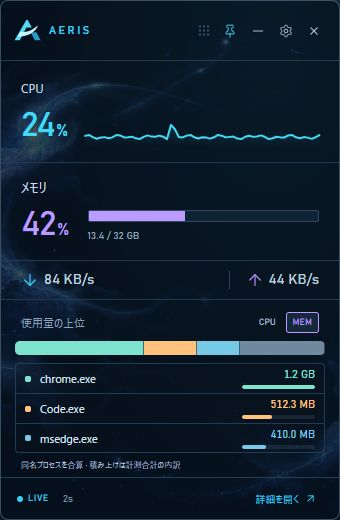
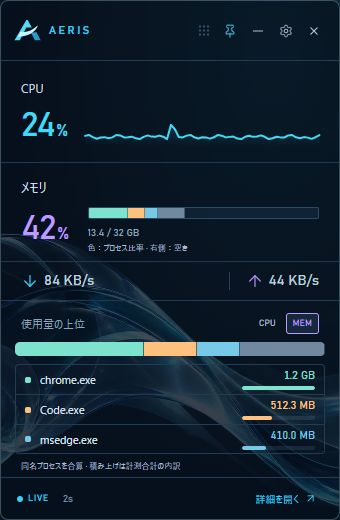
🎨 Stack app colors inside the gadget memory capacity bar
- Preserve the physical used/free boundary while coloring process proportions.
- Keep upper memory independent from the lower CPU and memory selector.
- Verify capacity edge cases and update docs and screenshots for v1.2.3.

diff --git a/ui/main.ts b/ui/main.ts
@@ -3,7 +3,7 @@ import './glass.css';
 import './resources.css';
 import './usage.css';
 import './breakdown.css';
-import {aggregateApps,renderBreakdown,appKey,usageAmount} from './breakdown';
+import {aggregateApps,renderBreakdown,appKey,usageAmount,memoryCapacity} from './breakdown';
 let appFilter:string|null=null;
 let showCpuHistory=false;
 import {percentage,usageColor,usageLevel,usageLeaders,type Resource} from './usage';
@@ -47,9 +47,9 @@ function draw(id:string,key:'cpu'|'memory'|'download',max=100,upload=false) {
  if(upload) el.querySelector('.upload-trace')?.setAttribute('points',chartPoints(snapshot.history,'upload',800,200,max,snapshot.sample.time));
 }
 const processPanel=`<section class="process-panel panel"><div id="usage-leaders" class="usage-leaders"></div><div class="process-heading"><div class="section-title">プロセス <span id="process-count" class="count">—</span></div><label class="search-box">${i('search')}<input id="search" placeholder="名前 / PID を検索" aria-label="プロセスを検索" autocomplete="off" spellcheck="false"><kbd>Ctrl F</kbd>${ib('clear-search','x','検索をクリア')}</label></div><div class="usage-key"><span class="scale-note">バー：各列の最多使用量との比較</span><span title="プロセスのCPU 25%以上、メモリは物理容量の10%以上" style="--resource-color:var(--load-high)"><b></b>高負荷</span><span title="プロセスのCPU 50%以上、メモリは物理容量の20%以上" style="--resource-color:var(--load-critical)"><b></b>非常に高い</span></div><div class="table-scroll" id="table-scroll"><table aria-label="実行中のプロセス"><colgroup><col style="width:27%"><col style="width:9%"><col style="width:10%"><col style="width:15%"><col style="width:13%"><col style="width:13%"><col style="width:13%"></colgroup><thead><tr>${[['name','名前'],['pid','PID'],['cpu','CPU %'],['memory','メモリ'],['read','読込/s'],['write','書込/s']].map(([k,label])=>`<th scope="col" aria-sort="${k==='cpu'?'descending':'none'}"><button data-sort="${k}">${label}<span class="sort-mark">${k==='cpu'?'↓':''}</span></button></th>`).join('')}<th scope="col">状態</th></tr></thead><tbody id="rows"></tbody></table><div class="empty" id="empty">システムに接続しています…</div></div><div class="process-bottom"><span id="selection-label">選択すると詳細を表示します</span><div class="actions"><button id="detail-button" class="quiet-button" data-action="details" disabled>詳細</button><button id="end-button" class="outline-button" data-action="end" disabled>タスクを終了</button></div></div></section>`;
-const settingsPanel=`<section id="settings-page" class="panel settings-page" hidden><div class="eyebrow">MAKE IT YOURS</div><h1>静かに、自分のペースで。</h1><p class="muted">表示と更新を、いつもの使い方に合わせて。</p><div class="setting-row"><div><h3>更新間隔</h3><p>長めの間隔で、計測の負荷を抑えられます。</p></div><div class="segmented">${[1,2,5].map(n=>`<button data-interval="${n}">${n} 秒</button>`).join('')}</div></div><div class="setting-row"><div><h3>ガジェットを最前面に固定</h3><p>ほかのアプリを操作していても表示します。</p></div><button class="switch" role="switch" aria-label="ガジェットを最前面に固定" id="pin-toggle" data-action="pin" aria-checked="true"></button></div><div class="setting-row"><div><h3>常駐ガジェット</h3><p>小さなウィンドウで、システムの動きを確認。</p></div><button class="primary-button" data-action="gadget">${i('panel-top')}ガジェットを開く</button></div><div class="setting-note">${i('activity')}<div><strong>見えないときは、ひと休み。</strong><p>すべての画面が非表示・最小化中は計測を停止します。<br>閉じてもバックグラウンドで動作を続けます。</p></div></div><div class="shortcuts"><span><kbd>Ctrl F</kbd> 検索</span><span><kbd>F5</kbd> 今すぐ更新</span><span><kbd>Esc</kbd> 閉じる / クリア</span></div><div class="settings-foot"><span>AERIS 1.2.2 · Tauri + Rust<br>CPU：全論理プロセッサに対する使用時間の割合<br>メモリ：各プロセスのワーキングセット<br>ネットワーク：ループバックを除くインターフェイスの合計</span><button class="quiet-button" data-action="quit">${i('power')}AERISを終了</button></div></section>`;
-function mainShell(){return `<div class="app-shell"><header class="titlebar" data-tauri-drag-region><span data-tauri-drag-region>AERIS <span class="title-separator">/</span> SYSTEM MONITOR</span><div class="window-controls">${ib('minimize','minus','最小化')}${ib('maximize','square','最大化 / 元に戻す')}${ib('close','x','画面をしまう')}</div></header><aside class="sidebar"><a class="brand" href="#overview" aria-label="AERIS 概要">${logo}</a><div class="sidebar-label">WORKSPACE</div><nav><button data-page="overview" class="nav-button active">${i('layout-grid')}<span>概要</span></button><button data-page="performance" class="nav-button">${i('cpu')}<span>パフォーマンス</span></button><button data-page="processes" class="nav-button">${i('activity')}<span>プロセス</span></button><button data-page="startup" class="nav-button">${i('play')}<span>スタートアップ</span></button><button data-page="services" class="nav-button">${i('sliders-horizontal')}<span>サービス</span></button><button data-page="history" class="nav-button">${i('clock')}<span>アプリ履歴</span></button><button data-page="users" class="nav-button">${i('shield')}<span>ユーザー</span></button><button data-page="settings" class="nav-button">${i('settings')}<span>設定</span></button></nav><div class="sidebar-bottom"><button class="gadget-launch" data-action="gadget">${i('panel-top')}<span>ガジェット表示</span>${i('arrow-up-right')}</button><div class="live-control"><span class="live"><b class="live-dot"></b><span id="live-text">LIVE</span></span>${ib('pause','pause','計測を一時停止 / 再開')}</div><label class="interval-label">更新間隔<select id="interval" aria-label="更新間隔"><option value="1">1 秒</option><option value="2" selected>2 秒</option><option value="5">5 秒</option></select></label><div class="version">DESKTOP NATIVE<span>v1.2.2</span></div></div></aside><main><div class="page-header"><div><div class="eyebrow" id="eyebrow">SYSTEM OVERVIEW</div><h1 id="page-title">PCの今を、軽やかに。</h1><p id="machine" class="machine">接続しています…</p></div><div class="header-actions"><button class="quiet-button" data-action="new-task">＋ 新しいタスク</button><span id="preview-badge" ${native?'hidden':''}>デザインプレビュー</span>${ib('refresh','refresh-cw','今すぐ更新 (F5)')}</div></div><div class="workspace" id="workspace"><div class="primary-column"><section id="cpu-panel" class="cpu-panel panel"><div class="metric-heading"><div><span class="metric-title">CPU</span><span id="cpu-value" class="hero-value">—<small>%</small></span><div class="muted metric-subtitle">使用率</div></div><div class="processor-info"><span id="cpu-name">—</span><span id="core-count">—</span></div></div><div class="breakdown-toolbar"><span id="cpu-view-label">アプリごとの使用量</span><button id="cpu-view-toggle" data-action="cpu-view">時間推移を見る</button></div><div id="cpu-breakdown"></div>${chart('cpu-chart',true)}<div class="chart-foot"><span><b class="legend-dot"></b> CPU 使用率</span><span>直近60秒</span></div></section>${processPanel}</div><aside class="telemetry"><section class="panel metric-card"><div class="card-label">メモリ${i('memory-stick')}</div><div id="memory-value" class="metric-value">—<small>%</small></div><div id="memory-capacity" class="metric-caption">— / — GB</div><div id="memory-breakdown"></div>${chart('memory-chart')}<div class="memory-track"><div id="memory-bar"></div></div><div class="dual-stat"><div><span>使用中</span><strong id="memory-used">—</strong></div><div><span>利用可能</span><strong id="memory-free">—</strong></div></div></section><section class="panel metric-card network-card"><div class="card-label">ネットワーク${i('wifi')}</div><div id="net-value" class="metric-value network-value">—<small>KB/s</small></div><div class="network-rates"><span class="download">↓ <b id="download-value">—</b></span><span class="upload">↑ <b id="upload-value">—</b></span></div>${chart('network-chart')}<div class="network-note">全インターフェイス合計<span>受信 + 送信</span></div></section><section class="panel uptime-card"><div class="card-label">システム稼働時間${i('clock')}</div><div id="uptime" class="uptime">—</div><div class="bottom-stat"><span>プロセス数</span><strong id="total-processes">—</strong></div><div class="bottom-stat"><span>論理プロセッサ</span><strong id="total-cores">—</strong></div></section></aside></div><section id="tools-page" class="resource-page" hidden></section><section id="insights-page" class="resource-page" hidden></section><section id="performance-page" class="resource-page" hidden></section>${settingsPanel}</main><footer><span id="status"><b class="live-dot"></b> 計測を準備しています</span><span id="updated">—</span></footer></div>`;}
-function gadgetShell(){return `<div class="gadget-shell"><div id="full-gadget"><header class="gadget-header" data-tauri-drag-region><div class="gadget-brand" data-tauri-drag-region>${logo}</div><span class="drag-grip" data-tauri-drag-region>${i('grip')}</span>${ib('pin','pin','最前面への固定を切り替え')}${ib('mini','minus','ミニバーに切り替え')}${ib('open-settings','settings','設定を開く')}${ib('hide-gadget','x','ガジェットを閉じる')}</header><section class="gadget-cpu"><div class="gadget-label">CPU</div><div class="gadget-cpu-body"><strong id="g-cpu">—<small>%</small></strong>${chart('g-cpu-chart')}</div></section><section class="gadget-memory"><div class="gadget-label">メモリ</div><div class="gadget-memory-body"><strong id="g-memory">—<small>%</small></strong><div><div class="memory-track"><div id="g-memory-bar"></div></div><span id="g-memory-capacity">— / — GB</span></div></div></section><section class="gadget-network"><span class="download">${i('arrow-down')}<b id="g-download">—</b></span><span class="upload">${i('arrow-up')}<b id="g-upload">—</b></span></section><section class="gadget-processes"><div class="gadget-label">使用量の上位<span class="g-usage-tabs"><button data-usage-sort="cpu" aria-pressed="true" style="--resource-color:var(--cpu-color)">CPU</button><button data-usage-sort="memory" aria-pressed="false" style="--resource-color:var(--memory-color)">MEM</button></span></div><div id="g-stack"></div><div id="g-processes"><div class="g-loading">計測を開始しています…</div></div><div class="g-scale-note">同名プロセスを合算 · 積み上げは計測合計の内訳</div></section><footer class="gadget-footer"><span class="live"><b class="live-dot"></b><span id="g-live">LIVE</span></span><span id="g-interval">2s</span><button data-action="open-main">詳細を開く ${i('arrow-up-right')}</button></footer></div><div id="mini-gadget" hidden data-tauri-drag-region><span class="mini-brand" data-tauri-drag-region>${brandSymbol}<span>AERIS</span></span><div class="mini-number" data-tauri-drag-region><span>CPU</span><strong id="m-cpu">—%</strong></div><div class="mini-number" data-tauri-drag-region><span>MEM</span><strong id="m-memory">—%</strong></div>${chart('m-chart')}<div class="mini-net" data-tauri-drag-region><span>↓ <b id="m-down">—</b></span><span>↑ <b id="m-up">—</b></span></div>${ib('mini','maximize-2','ガジェット表示に戻す')}${ib('hide-gadget','x','ガジェットを閉じる')}</div></div>`;}
+const settingsPanel=`<section id="settings-page" class="panel settings-page" hidden><div class="eyebrow">MAKE IT YOURS</div><h1>静かに、自分のペースで。</h1><p class="muted">表示と更新を、いつもの使い方に合わせて。</p><div class="setting-row"><div><h3>更新間隔</h3><p>長めの間隔で、計測の負荷を抑えられます。</p></div><div class="segmented">${[1,2,5].map(n=>`<button data-interval="${n}">${n} 秒</button>`).join('')}</div></div><div class="setting-row"><div><h3>ガジェットを最前面に固定</h3><p>ほかのアプリを操作していても表示します。</p></div><button class="switch" role="switch" aria-label="ガジェットを最前面に固定" id="pin-toggle" data-action="pin" aria-checked="true"></button></div><div class="setting-row"><div><h3>常駐ガジェット</h3><p>小さなウィンドウで、システムの動きを確認。</p></div><button class="primary-button" data-action="gadget">${i('panel-top')}ガジェットを開く</button></div><div class="setting-note">${i('activity')}<div><strong>見えないときは、ひと休み。</strong><p>すべての画面が非表示・最小化中は計測を停止します。<br>閉じてもバックグラウンドで動作を続けます。</p></div></div><div class="shortcuts"><span><kbd>Ctrl F</kbd> 検索</span><span><kbd>F5</kbd> 今すぐ更新</span><span><kbd>Esc</kbd> 閉じる / クリア</span></div><div class="settings-foot"><span>AERIS 1.2.3 · Tauri + Rust<br>CPU：全論理プロセッサに対する使用時間の割合<br>メモリ：各プロセスのワーキングセット<br>ネットワーク：ループバックを除くインターフェイスの合計</span><button class="quiet-button" data-action="quit">${i('power')}AERISを終了</button></div></section>`;
+function mainShell(){return `<div class="app-shell"><header class="titlebar" data-tauri-drag-region><span data-tauri-drag-region>AERIS <span class="title-separator">/</span> SYSTEM MONITOR</span><div class="window-controls">${ib('minimize','minus','最小化')}${ib('maximize','square','最大化 / 元に戻す')}${ib('close','x','画面をしまう')}</div></header><aside class="sidebar"><a class="brand" href="#overview" aria-label="AERIS 概要">${logo}</a><div class="sidebar-label">WORKSPACE</div><nav><button data-page="overview" class="nav-button active">${i('layout-grid')}<span>概要</span></button><button data-page="performance" class="nav-button">${i('cpu')}<span>パフォーマンス</span></button><button data-page="processes" class="nav-button">${i('activity')}<span>プロセス</span></button><button data-page="startup" class="nav-button">${i('play')}<span>スタートアップ</span></button><button data-page="services" class="nav-button">${i('sliders-horizontal')}<span>サービス</span></button><button data-page="history" class="nav-button">${i('clock')}<span>アプリ履歴</span></button><button data-page="users" class="nav-button">${i('shield')}<span>ユーザー</span></button><button data-page="settings" class="nav-button">${i('settings')}<span>設定</span></button></nav><div class="sidebar-bottom"><button class="gadget-launch" data-action="gadget">${i('panel-top')}<span>ガジェット表示</span>${i('arrow-up-right')}</button><div class="live-control"><span class="live"><b class="live-dot"></b><span id="live-text">LIVE</span></span>${ib('pause','pause','計測を一時停止 / 再開')}</div><label class="interval-label">更新間隔<select id="interval" aria-label="更新間隔"><option value="1">1 秒</option><option value="2" selected>2 秒</option><option value="5">5 秒</option></select></label><div class="version">DESKTOP NATIVE<span>v1.2.3</span></div></div></aside><main><div class="page-header"><div><div class="eyebrow" id="eyebrow">SYSTEM OVERVIEW</div><h1 id="page-title">PCの今を、軽やかに。</h1><p id="machine" class="machine">接続しています…</p></div><div class="header-actions"><button class="quiet-button" data-action="new-task">＋ 新しいタスク</button><span id="preview-badge" ${native?'hidden':''}>デザインプレビュー</span>${ib('refresh','refresh-cw','今すぐ更新 (F5)')}</div></div><div class="workspace" id="workspace"><div class="primary-column"><section id="cpu-panel" class="cpu-panel panel"><div class="metric-heading"><div><span class="metric-title">CPU</span><span id="cpu-value" class="hero-value">—<small>%</small></span><div class="muted metric-subtitle">使用率</div></div><div class="processor-info"><span id="cpu-name">—</span><span id="core-count">—</span></div></div><div class="breakdown-toolbar"><span id="cpu-view-label">アプリごとの使用量</span><button id="cpu-view-toggle" data-action="cpu-view">時間推移を見る</button></div><div id="cpu-breakdown"></div>${chart('cpu-chart',true)}<div class="chart-foot"><span><b class="legend-dot"></b> CPU 使用率</span><span>直近60秒</span></div></section>${processPanel}</div><aside class="telemetry"><section class="panel metric-card"><div class="card-label">メモリ${i('memory-stick')}</div><div id="memory-value" class="metric-value">—<small>%</small></div><div id="memory-capacity" class="metric-caption">— / — GB</div><div id="memory-breakdown"></div>${chart('memory-chart')}<div class="memory-track"><div id="memory-bar"></div></div><div class="dual-stat"><div><span>使用中</span><strong id="memory-used">—</strong></div><div><span>利用可能</span><strong id="memory-free">—</strong></div></div></section><section class="panel metric-card network-card"><div class="card-label">ネットワーク${i('wifi')}</div><div id="net-value" class="metric-value network-value">—<small>KB/s</small></div><div class="network-rates"><span class="download">↓ <b id="download-value">—</b></span><span class="upload">↑ <b id="upload-value">—</b></span></div>${chart('network-chart')}<div class="network-note">全インターフェイス合計<span>受信 + 送信</span></div></section><section class="panel uptime-card"><div class="card-label">システム稼働時間${i('clock')}</div><div id="uptime" class="uptime">—</div><div class="bottom-stat"><span>プロセス数</span><strong id="total-processes">—</strong></div><div class="bottom-stat"><span>論理プロセッサ</span><strong id="total-cores">—</strong></div></section></aside></div><section id="tools-page" class="resource-page" hidden></section><section id="insights-page" class="resource-page" hidden></section><section id="performance-page" class="resource-page" hidden></section>${settingsPanel}</main><footer><span id="status"><b class="live-dot"></b> 計測を準備しています</span><span id="updated">—</span></footer></div>`;}
+function gadgetShell(){return `<div class="gadget-shell"><div id="full-gadget"><header class="gadget-header" data-tauri-drag-region><div class="gadget-brand" data-tauri-drag-region>${logo}</div><span class="drag-grip" data-tauri-drag-region>${i('grip')}</span>${ib('pin','pin','最前面への固定を切り替え')}${ib('mini','minus','ミニバーに切り替え')}${ib('open-settings','settings','設定を開く')}${ib('hide-gadget','x','ガジェットを閉じる')}</header><section class="gadget-cpu"><div class="gadget-label">CPU</div><div class="gadget-cpu-body"><strong id="g-cpu">—<small>%</small></strong>${chart('g-cpu-chart')}</div></section><section class="gadget-memory"><div class="gadget-label">メモリ</div><div class="gadget-memory-body"><strong id="g-memory">—<small>%</small></strong><div><div class="memory-track gadget-capacity-track" role="group" aria-label="物理メモリの使用中と空き。使用中の色はプロセスメモリの比率。"><div id="g-memory-bar"></div></div><span id="g-memory-capacity">— / — GB</span><small class="capacity-key">色：プロセス比率 · 右側：空き</small></div></div></section><section class="gadget-network"><span class="download">${i('arrow-down')}<b id="g-download">—</b></span><span class="upload">${i('arrow-up')}<b id="g-upload">—</b></span></section><section class="gadget-processes"><div class="gadget-label">使用量の上位<span class="g-usage-tabs"><button data-usage-sort="cpu" aria-pressed="true" style="--resource-color:var(--cpu-color)">CPU</button><button data-usage-sort="memory" aria-pressed="false" style="--resource-color:var(--memory-color)">MEM</button></span></div><div id="g-stack"></div><div id="g-processes"><div class="g-loading">計測を開始しています…</div></div><div class="g-scale-note">同名プロセスを合算 · 積み上げは計測合計の内訳</div></section><footer class="gadget-footer"><span class="live"><b class="live-dot"></b><span id="g-live">LIVE</span></span><span id="g-interval">2s</span><button data-action="open-main">詳細を開く ${i('arrow-up-right')}</button></footer></div><div id="mini-gadget" hidden data-tauri-drag-region><span class="mini-brand" data-tauri-drag-region>${brandSymbol}<span>AERIS</span></span><div class="mini-number" data-tauri-drag-region><span>CPU</span><strong id="m-cpu">—%</strong></div><div class="mini-number" data-tauri-drag-region><span>MEM</span><strong id="m-memory">—%</strong></div>${chart('m-chart')}<div class="mini-net" data-tauri-drag-region><span>↓ <b id="m-down">—</b></span><span>↑ <b id="m-up">—</b></span></div>${ib('mini','maximize-2','ガジェット表示に戻す')}${ib('hide-gadget','x','ガジェットを閉じる')}</div></div>`;}
 $('#app').innerHTML=(gadget?gadgetShell():mainShell())+`<div id="toast" class="toast" role="status" hidden></div><dialog id="detail-dialog"><div id="detail-content"></div></dialog><dialog id="end-dialog"><div class="dialog-heading"><span class="dialog-symbol">${i('power')}</span><h2>タスクを終了しますか？</h2></div><p id="end-name" class="end-name"></p><p class="muted">未保存の作業が失われる可能性があります。<br><span id="end-scope">このプロセスだけを終了します。</span></p><div class="dialog-actions"><button class="quiet-button" data-action="cancel-end">キャンセル</button><button class="danger-button" data-action="confirm-end">終了する</button></div></dialog>`;
 document.body.classList.toggle('gadget',gadget);
 document.body.classList.toggle('browser-preview',!native);
@@ -120,13 +120,13 @@ function receive(data:Snapshot){snapshot=data;settings=data.settings;updateSetti
  if(selected){selected=data.processes.find(p=>p.pid===selected!.pid&&p.startTime===selected!.startTime)??null;}
  updateTable();updateSelection();if(page==='performance')$('#performance-page').innerHTML=renderPerformance(data);if(['history','users'].includes(page))renderInsights();
 }
-function renderGadget(){const s=snapshot!;
+function renderGadget(){const s=snapshot!;const apps=aggregateApps(s.processes);
  colorUsage(document.querySelector('.gadget-cpu'),s.sample.cpu,'cpu');colorUsage(document.querySelector('.gadget-memory'),s.sample.memory,'memory');colorUsage($('#m-cpu'),s.sample.cpu,'cpu');colorUsage($('#m-memory'),s.sample.memory,'memory');colorUsage($('#m-chart'),s.sample.cpu,'cpu');
  $('#g-cpu').innerHTML=`${s.sample.cpu.toFixed(0)}<small>%</small>`;$('#g-memory').innerHTML=`${s.sample.memory.toFixed(0)}<small>%</small>`;
- $('#g-memory-capacity').textContent=`${(s.usedMemory/1073741824).toFixed(1)} / ${(s.totalMemory/1073741824).toFixed(0)} GB`;$('#g-memory-bar').style.width=`${s.sample.memory}%`;
+ $('#g-memory-capacity').textContent=`${(s.usedMemory/1073741824).toFixed(1)} / ${(s.totalMemory/1073741824).toFixed(0)} GB`;const capacity=memoryCapacity(apps,s.usedMemory,s.totalMemory);$('#g-memory-bar').style.width=`${capacity.usedPercent}%`;$('#g-memory-bar').innerHTML=capacity.html;$('.gadget-capacity-track').title=`物理メモリ 使用中 ${bytes(s.usedMemory)} / 全体 ${bytes(s.totalMemory)} · 空き ${bytes(Math.max(0,s.totalMemory-s.usedMemory))}`;
  $('#g-download').textContent=rate(s.sample.download);$('#g-upload').textContent=rate(s.sample.upload);
  $('#g-live').textContent=s.paused?'PAUSED':'LIVE';$('#g-interval').textContent=`${s.settings.interval}s`;
- const apps=aggregateApps(s.processes);const ranked=[...apps].sort((a,b)=>b[gadgetResource]-a[gadgetResource]||a.key.localeCompare(b.key));const maximum=ranked[0]?.[gadgetResource]??0;$('#g-stack').innerHTML=renderBreakdown(apps,gadgetResource,true,false);
+ const ranked=[...apps].sort((a,b)=>b[gadgetResource]-a[gadgetResource]||a.key.localeCompare(b.key));const maximum=ranked[0]?.[gadgetResource]??0;$('#g-stack').innerHTML=renderBreakdown(apps,gadgetResource,true,false);
  $('#g-processes').innerHTML=ranked.slice(0,3).map(a=>`<div class="g-process" style="--app-color:${a.color}" title="${esc(a.name)} · 同名${a.count}プロセスの合計"><i class="g-process-dot"></i><span class="g-process-name">${esc(a.name)}</span><div class="process-usage" style="--resource-color:${a.color}"><span>${usageAmount(a[gadgetResource],gadgetResource)}</span><span class="usage-track" aria-hidden="true"><i style="width:${percentage(a[gadgetResource],maximum)}%"></i></span></div></div>`).join('');
  document.querySelectorAll<HTMLButtonElement>('[data-usage-sort]').forEach(b=>b.setAttribute('aria-pressed',String(b.dataset.usageSort===gadgetResource)));
  $('#m-cpu').textContent=s.sample.cpu.toFixed(0)+'%';$('#m-memory').textContent=s.sample.memory.toFixed(0)+'%';$('#m-down').textContent=rate(s.sample.download);$('#m-up').textContent=rate(s.sample.upload);

diff --git a/ui/breakdown.ts b/ui/breakdown.ts
@@ -1,5 +1,6 @@
 import {escapeHtml as esc,bytes,type ProcessRow} from './model';
 import type {Resource} from './usage';
+import {percentage} from './usage';
 export type AppUsage={key:string;name:string;cpu:number;memory:number;count:number;color:string};
 export type Segment={key:string|null;name:string;value:number;share:number;count:number;color:string};
 export const appKey=(name:string)=>name.trim().toLowerCase();
@@ -29,6 +30,15 @@ export function breakdown(apps:AppUsage[],resource:Resource,limit=5):{total:numb
  return {total,segments};
 }
 export const usageAmount=(value:number,resource:Resource)=>resource==='cpu'?value.toFixed(1)+'%':bytes(value);
+// Keep the physical used/free boundary accurate. Colors only show the relative
+// resident-process composition within the used area; they are not physical attribution.
+export function memoryCapacity(apps:AppUsage[],used:number,total:number){
+ const usedPercent=percentage(used,total);
+ const {segments}=breakdown(apps,'memory',3);
+ const explanation='使用中の幅をプロセスメモリの比率で色分け。各アプリの物理RAM占有量ではありません（共有ページの重複を含む）。';
+ const html=segments.length?segments.map(s=>`<i class="capacity-segment" style="width:${s.share}%;--app-color:${s.color}" role="img" aria-label="${esc(s.name)} · プロセスメモリ ${bytes(s.value)} · 計測合計の${s.share.toFixed(1)}%" title="${esc(s.name)} · ${bytes(s.value)} · 計測合計の${s.share.toFixed(1)}%\n${explanation}"></i>`).join(''):`<i class="capacity-segment capacity-unknown" style="width:100%;--app-color:#71899e" role="img" aria-label="プロセス内訳を取得できません" title="使用中 · プロセス内訳を取得できません"></i>`;
+ return {usedPercent,html};
+}
 export function renderBreakdown(apps:AppUsage[],resource:Resource,compact=false,interactive=true):string{
  const {total,segments}=breakdown(apps,resource,compact?3:5);
  if(!segments.length)return '<p class="breakdown-empty">計測できる使用量がありません</p>';

diff --git a/tests/breakdown.test.ts b/tests/breakdown.test.ts
@@ -1,6 +1,16 @@
 import test from 'node:test';import assert from 'node:assert/strict';
-import {aggregateApps,breakdown,appColor,renderBreakdown} from '../ui/breakdown';import type{ProcessRow}from '../ui/model';
+import {aggregateApps,breakdown,appColor,renderBreakdown,memoryCapacity} from '../ui/breakdown';import type{ProcessRow}from '../ui/model';
 const row=(name:string,cpu:number,memory:number)=>({name,cpu,memory}) as ProcessRow;
+test('capacity bar preserves physical used/free even when shared process memory exceeds capacity',()=>{
+ const apps=aggregateApps([row('a',1,800),row('b',1,1200)]);
+ const bar=memoryCapacity(apps,400,1000);
+ assert.equal(bar.usedPercent,40);
+ assert.ok(bar.html.includes('width:60%'));assert.ok(bar.html.includes('width:40%'));
+ assert.ok(bar.html.includes('物理RAM占有量ではありません'));
+ assert.equal(memoryCapacity(apps,400,0).usedPercent,0);
+ assert.equal(memoryCapacity(apps,1200,1000).usedPercent,100);
+ assert.ok(memoryCapacity([],400,1000).html.includes('内訳を取得できません'));
+});
 test('same executable groups case-insensitively and keeps its color across resources and ordering',()=>{
  const rows=[row('Chrome.exe',5,200),row('chrome.exe',3,300),row('Code.exe',9,100)];const apps=aggregateApps(rows);const chrome=apps.find(a=>a.key==='chrome.exe')!;
  assert.equal(chrome.cpu,8);assert.equal(chrome.memory,500);assert.equal(chrome.count,2);assert.equal(chrome.color,appColor('chrome.exe'));

diff --git a/ui/breakdown.css b/ui/breakdown.css
@@ -17,6 +17,10 @@ button.stacked-segment:not(:disabled):hover{background:var(--app-color);filter:b
 #cpu-breakdown{min-height:0;flex:1}
 .gadget-processes{padding-top:12px}.g-process{height:30px}
 .gadget-network{padding-top:10px;padding-bottom:10px}
+.gadget-memory{padding-bottom:8px}
+#g-memory-bar{display:flex;height:100%;overflow:hidden;background:transparent}
+#g-memory-bar .capacity-segment{display:block;flex-shrink:0;height:100%;background:var(--app-color);border-right:1px solid #0a1c2b66}
+.gadget-memory-body .capacity-key{display:block;font:8px 'Yu Gothic UI','Segoe UI',sans-serif;color:#a9bdcf;letter-spacing:0;margin:3px 0 0;white-space:nowrap}
 #g-stack .stacked-caption,#g-stack .stacked-legend,#g-stack .stacked-note{display:none}#g-stack{margin:0 0 8px}#g-stack .stacked-track{height:14px}
 .g-process-dot{width:6px;height:6px;flex-shrink:0;border-radius:2px;background:var(--app-color)}
 @media(max-width:1100px){.stacked-legend{gap:2px 10px}.stacked-item{font-size:9px}.stacked-item strong{font-size:10px}}

diff --git a/README.md b/README.md
@@ -73,22 +73,22 @@ These are captures of the implemented UI in its browser preview, using sample me
 
 ## 📦 Download and run
 
-Choose the package for your OS and CPU from [Releases](https://github.com/Sunwood-ai-labs/AERIS/releases/latest). `1.2.2` below is the version number.
+Choose the package for your OS and CPU from [Releases](https://github.com/Sunwood-ai-labs/AERIS/releases/latest). `1.2.3` below is the version number.
 
 | OS / CPU | File | Install / launch |
 |---|---|---|
-| Windows x64 | `AERIS-1.2.2-windows-x64-setup.exe` | Run the installer |
-| Windows x64 portable | `AERIS-1.2.2-windows-x64-portable.zip` | Extract the whole folder and run `AERIS/AERIS.exe` |
-| macOS Apple Silicon | `AERIS-1.2.2-macos-arm64.dmg` | Open and copy AERIS to Applications |
-| macOS Intel | `AERIS-1.2.2-macos-x64.dmg` | Open and copy AERIS to Applications |
-| Linux x64 Debian/Ubuntu | `AERIS-1.2.2-linux-x64.deb` | `sudo apt install ./AERIS-1.2.2-linux-x64.deb` |
-| Linux x64 AppImage | `AERIS-1.2.2-linux-x64.AppImage` | Make executable and launch |
+| Windows x64 | `AERIS-1.2.3-windows-x64-setup.exe` | Run the installer |
+| Windows x64 portable | `AERIS-1.2.3-windows-x64-portable.zip` | Extract the whole folder and run `AERIS/AERIS.exe` |
+| macOS Apple Silicon | `AERIS-1.2.3-macos-arm64.dmg` | Open and copy AERIS to Applications |
+| macOS Intel | `AERIS-1.2.3-macos-x64.dmg` | Open and copy AERIS to Applications |
+| Linux x64 Debian/Ubuntu | `AERIS-1.2.3-linux-x64.deb` | `sudo apt install ./AERIS-1.2.3-linux-x64.deb` |
+| Linux x64 AppImage | `AERIS-1.2.3-linux-x64.AppImage` | Make executable and launch |
 
 Windows requires [WebView2 Runtime](https://developer.microsoft.com/microsoft-edge/webview2/). Keep any DLLs included in the ZIP beside the executable. macOS targets 12.0+ and uses system WKWebView. Linux packages are built on Ubuntu 22.04 using WebKitGTK 4.1. APT resolves DEB dependencies; AppImage may require a FUSE 2 compatibility library on your distribution.
 
 ```sh
-chmod +x AERIS-1.2.2-linux-x64.AppImage
-./AERIS-1.2.2-linux-x64.AppImage
+chmod +x AERIS-1.2.3-linux-x64.AppImage
+./AERIS-1.2.3-linux-x64.AppImage
 ```
 
 Individual SHA-256 files accompany every package. Windows builds are not Authenticode-signed. macOS builds use ad-hoc signing and are not Apple-notarized, so the OS may prompt or restrict first launch.
@@ -111,6 +111,8 @@ Keyboard shortcuts: `Ctrl+F` search, `F5` refresh, `Esc` close a dialog or clear
 **Stacked app breakdown:** The overview groups processes with the same executable name and gives each app a stable color shared by CPU and memory. Colored segments and legends show the largest contributors, with the remainder combined into “Other.” Click an app segment or legend to filter its processes; switch CPU to time history with the button above its bar. The gadget's CPU/MEM buttons switch both the stacked breakdown and its top-three app list.
 
 Stacked bars normalize the sum of measured processes to 100%, while the separate system meters retain actual overall CPU and physical-memory percentages. These totals can differ: process memory includes shared pages, so its sum is not physical RAM consumption. Hover a segment to see the app's amount, share and process count.
+
+The gadget's upper memory-capacity bar also uses app colors. Its filled width is actual physical memory usage, with free capacity on the right; colors subdivide the filled area in proportion to measured process memory. They do **not** represent each app's physical RAM allocation. The label and hover descriptions explain this distinction, and the lower CPU/MEM selector does not change the upper memory bar.
 
 **Process comparison colors:** CPU is cyan and memory is violet. Individual process bars compare against the largest process in each column across the entire snapshot; filtering does not change that scale. Numbers retain actual CPU percentages and resident-memory amounts. Top-consumer shortcuts filter to the relevant PID.
 
@@ -152,7 +154,7 @@ For MinGW-w64 on Windows, install the GNU Rust toolchain and set `$env:RUSTUP_TO
 
 1. Code pushes to `main`, pull requests, and manual runs execute frontend/Rust unit tests, deterministic icon checks, native builds, and integration tests.
 2. Installable packages, the Windows portable ZIP, and checksums are uploaded as Actions artifacts for 14 days. README/screenshot-only changes skip native rebuilds.
-3. Pushing a version tag such as `v1.2.2` builds every target and automatically publishes a GitHub Release **only after every target succeeds**.
+3. Pushing a version tag such as `v1.2.3` builds every target and automatically publishes a GitHub Release **only after every target succeeds**.
 
 Before tagging, align versions in `package.json` / `package-lock.json`, `src-tauri/Cargo.toml` / `Cargo.lock`, `src-tauri/tauri.conf.json`, and UI labels. No signing secrets are currently needed; official code signing and notarization require separate configuration.
 

diff --git a/docs/releases/1.2.3.md b/docs/releases/1.2.3.md
@@ -1,0 +1,10 @@
+# AERIS 1.2.3
+
+The gadget's upper memory bar now uses stacked app colors, matching its resource breakdown.
+
+- The filled width retains actual physical memory usage; the unfilled right side remains free capacity.
+- Colors within the used area follow measured process-memory proportions, using the same app colors as the lower breakdown.
+- Labels and hover descriptions distinguish process proportions from physical RAM allocation, including shared-memory overlap.
+- The upper bar always shows memory, independently of the lower CPU/MEM selector.
+
+Windows x64 installer/portable ZIP, macOS Apple Silicon/Intel DMGs and Linux x64 DEB/AppImage are built and tested by GitHub Actions. Each package includes a SHA-256 sidecar. Windows builds are unsigned; macOS builds use ad-hoc signing without notarization. The interface is Japanese.
